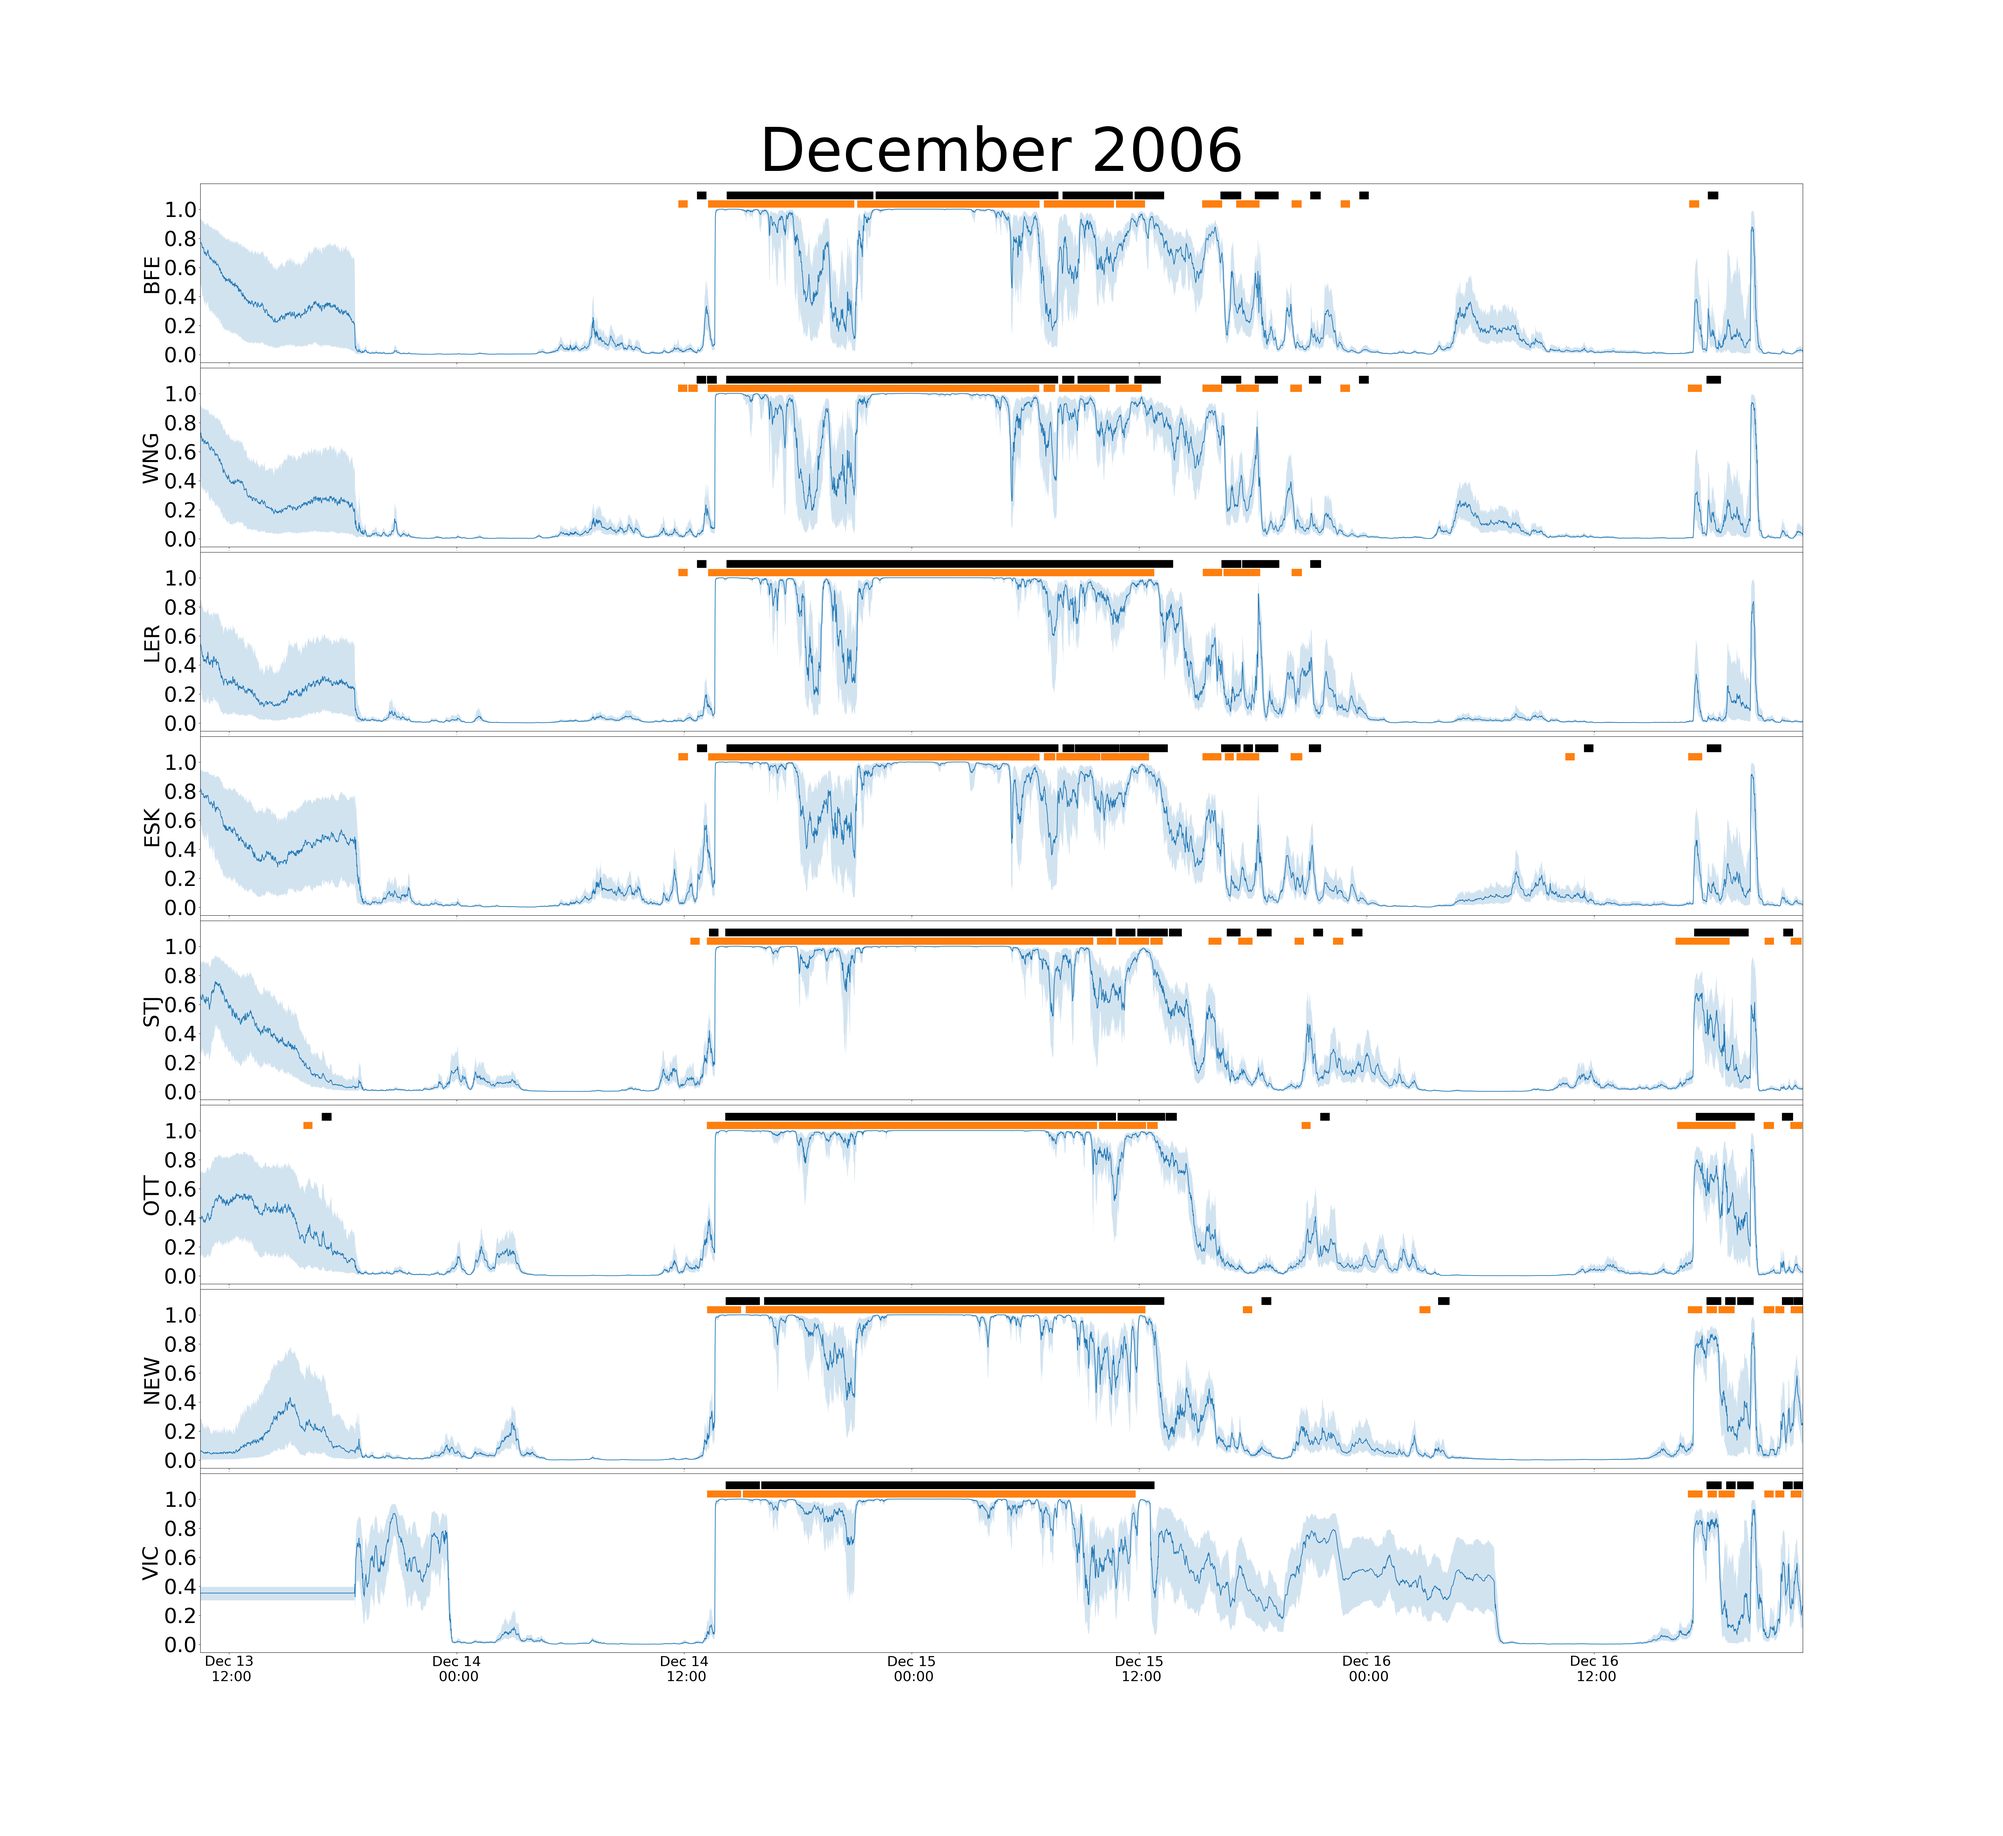
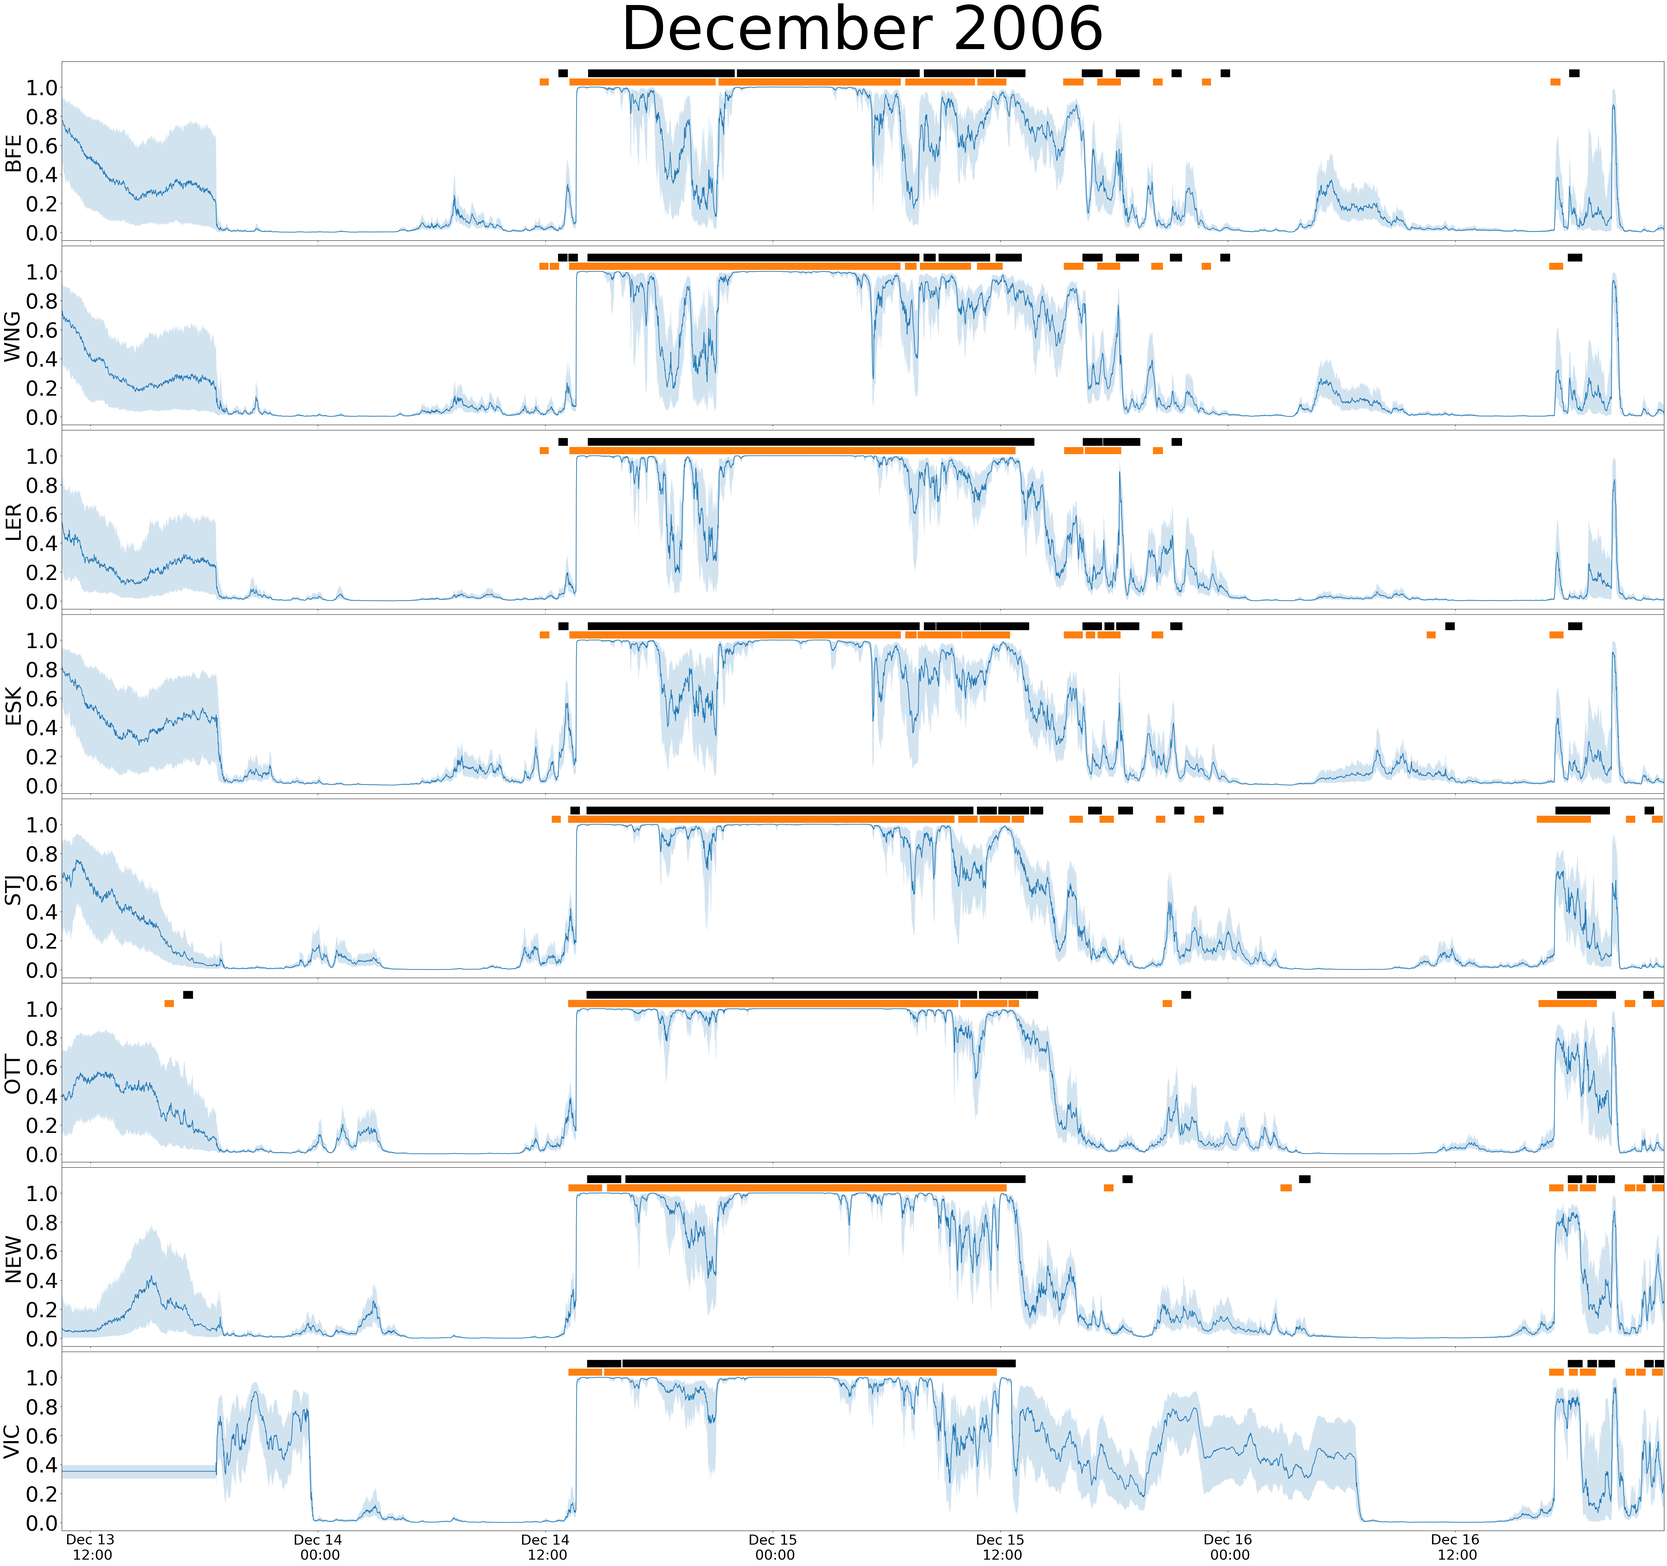
updates

diff --git a/plotting.py b/plotting.py
@@ -518,7 +518,7 @@ def plot_model_outputs(results_dict, storm, splits, title, stime, etime):
 	plt.xticks(fontsize=30)
 	ax8.xaxis.set_major_formatter(mdates.DateFormatter('%b %d\n %H:%M'))			# adds the date to the bottom of the plot
 
-	plt.savefig('plots/k_fold_{0}_storm.png'.format(storm))		# saves the plot
+	plt.savefig('plots/k_fold_{0}_storm.png'.format(storm), bbox_inches='tight')		# saves the plot
 
 
 def main():
